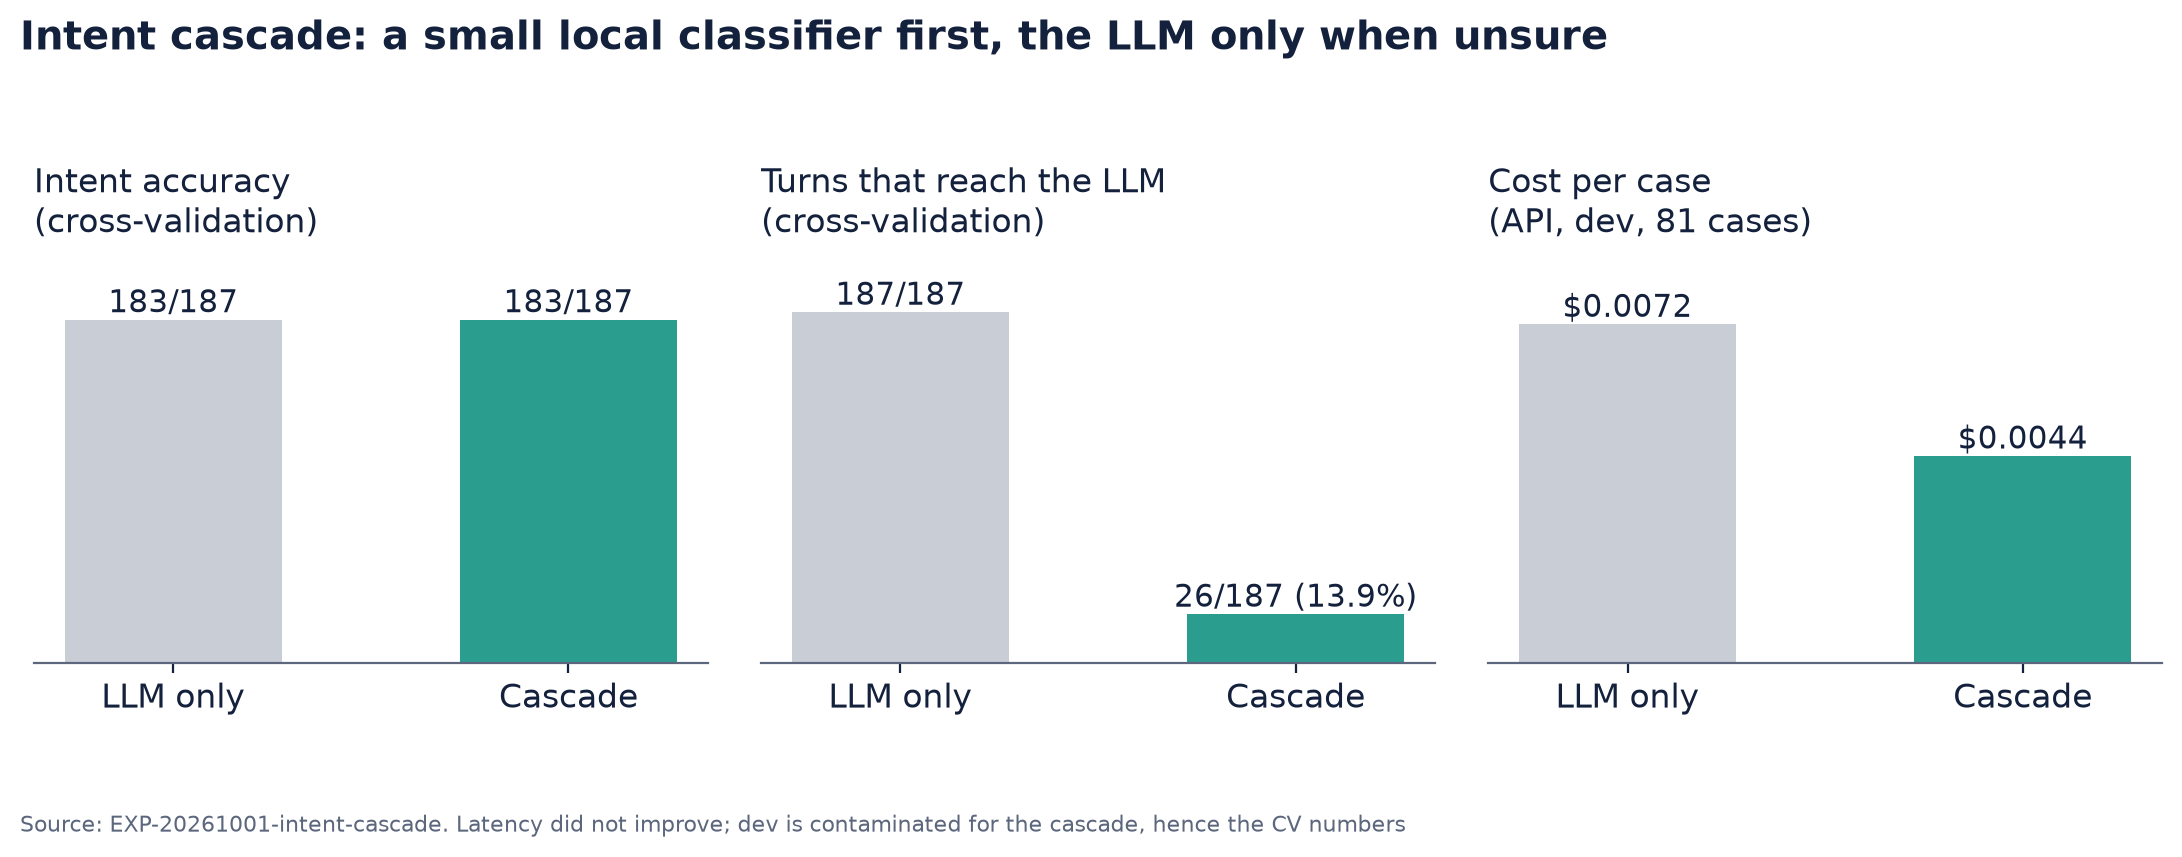
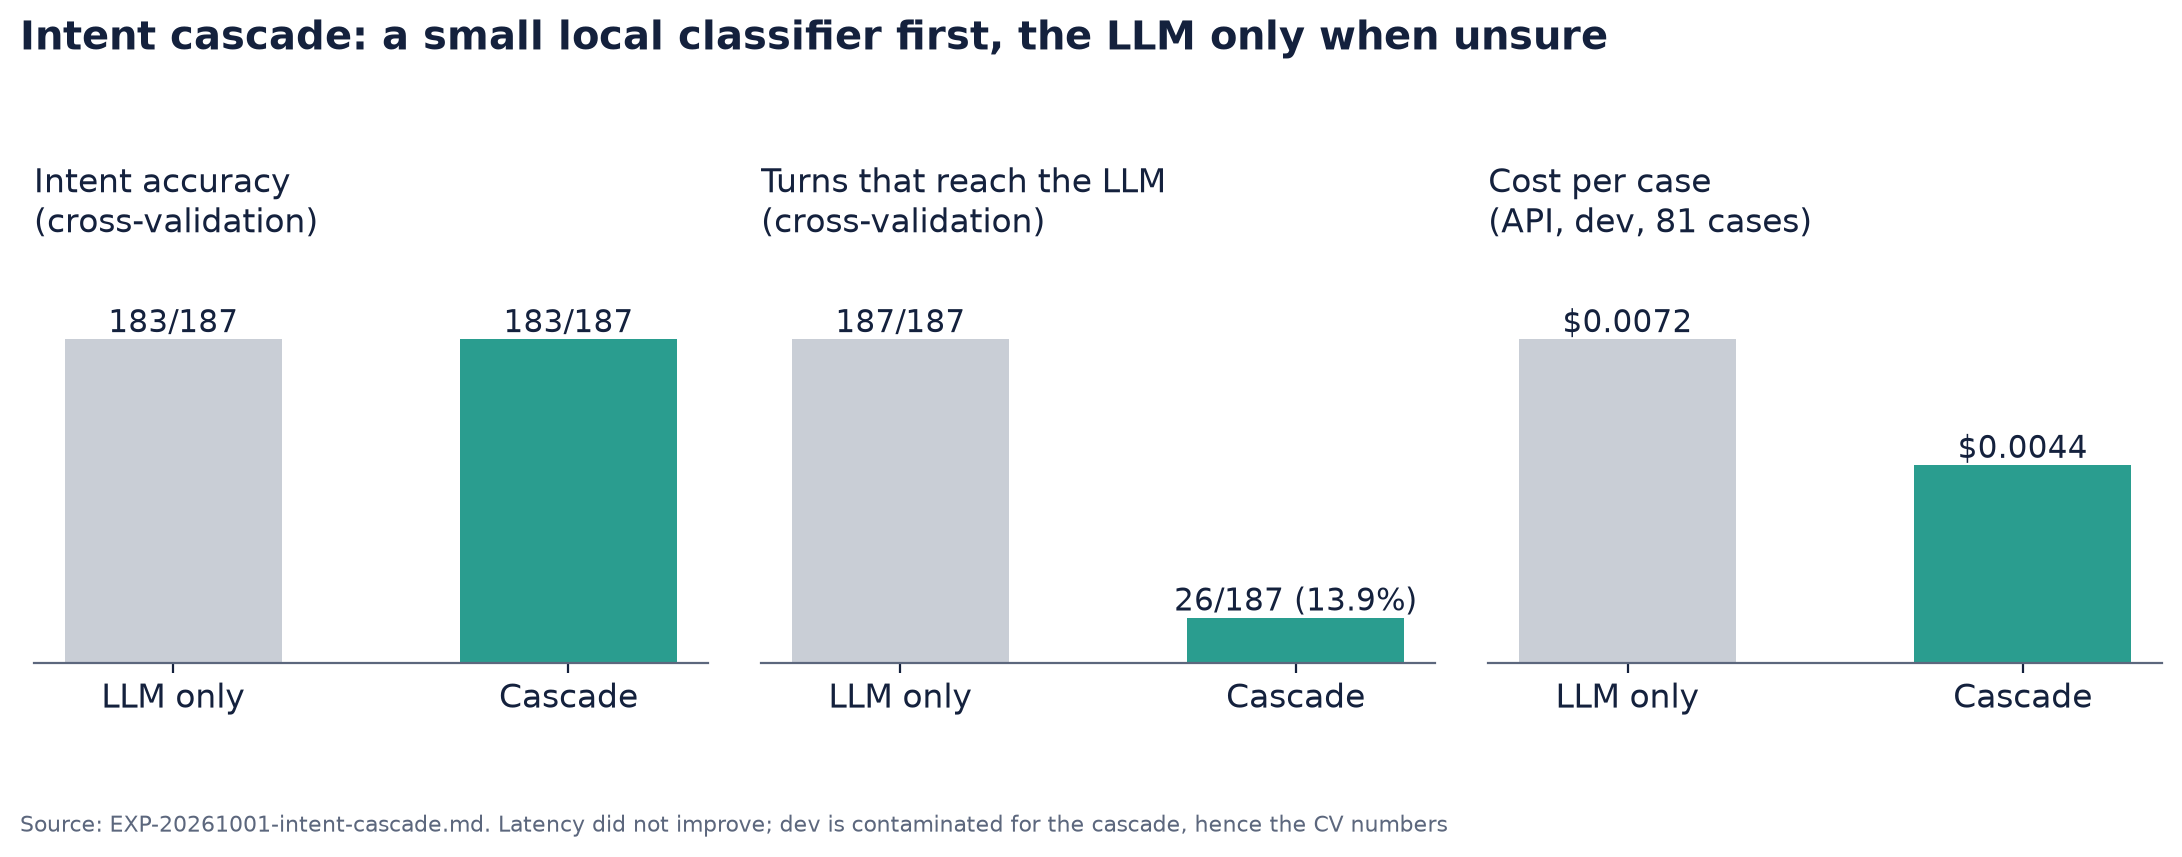
docs(presentation): figures read their numbers from the recorded results; ROI break-even chart
make_figures.py now parses the eval reports, the experiment tables, the risk model
JSON and roi.toml instead of hard-coded numbers, and fails clearly when a source is
missing. The frozen-test row comes from the table written by final_eval.sh --final.
evaluation-api.png labels each run with its size and date.

Claude-Session: https://claude.ai/code/session_01DF8GC7WgeWqpaRomXdAd3z

diff --git a/docs/presentation/make_figures.py b/docs/presentation/make_figures.py
@@ -1,5 +1,22 @@
-"""Figures for the slides. Every number is copied from a recorded run or document (source next to it); nothing is computed
-from the dataset here, so the script runs anywhere:  .venv/bin/python docs/presentation/make_figures.py"""
+"""Figures for the slides, generated from the recorded results (nothing is typed by hand here).
+
+    .venv/bin/python docs/presentation/make_figures.py
+
+Where each number comes from (the script fails with a clear message if a source file or row is missing):
+- risk-frauds-caught.png   docs/experiments/EXP-20261001-risk-calibration.md (results table) + models/risk/risk-v1.json
+- intent-cascade.png       docs/experiments/EXP-20261001-intent-cascade.md (cross-validation and harness tables)
+- all-llm-vs-system.png    eval/results/20260930-2139_comparacion_dev.md (eval.compare report)
+- evaluation-api.png       eval/results/20261001-1355_comparacion_dev.md, eval/results/20261001-1601_comparacion_dev_paraphrase.md
+                           and, for the last row, the newest eval/results/*_tabla_final.md written by scripts/final_eval.sh --final
+                           (until that file exists, the row says "pending")
+- roi-break-even.png       backend/config/roi.toml through backend.app.observability.admin_metrics.roi_numbers
+"""
+from __future__ import annotations
+
+import json
+import re
+import sys
+import tomllib
 from pathlib import Path
 
 import matplotlib
@@ -7,100 +24,238 @@ import matplotlib
 matplotlib.use("Agg")
 import matplotlib.pyplot as plt  # noqa: E402
 
+ROOT = Path(__file__).resolve().parents[2]
+sys.path.insert(0, str(ROOT))
 OUT = Path(__file__).resolve().parent / "figures"
+RISK_EXP = "docs/experiments/EXP-20261001-risk-calibration.md"
+RISK_MODEL = "models/risk/risk-v1.json"
+CASCADE_EXP = "docs/experiments/EXP-20261001-intent-cascade.md"
+DESIGN = "eval/results/20260930-2139_comparacion_dev.md"
+API_DEV = "eval/results/20261001-1355_comparacion_dev.md"
+API_PARAPHRASE = "eval/results/20261001-1601_comparacion_dev_paraphrase.md"
+ROI = "backend/config/roi.toml"
+
 INK, MUTED, ACCENT, GREY = "#14213d", "#5c677d", "#2a9d8f", "#c9ced6"
 plt.rcParams.update({"font.family": "DejaVu Sans", "font.size": 12, "axes.spines.top": False, "axes.spines.right": False,
                      "axes.edgecolor": MUTED, "text.color": INK, "axes.labelcolor": INK, "xtick.color": INK, "ytick.color": INK})
 
 
+# ------------------------------------------------------------------ reading the sources
+def read(rel: str) -> str:
+    path = ROOT / rel
+    if not path.exists():
+        raise SystemExit(f"missing source file: {rel} (needed by docs/presentation/make_figures.py)")
+    return path.read_text(encoding="utf-8")
+
+
+def cells(line: str) -> list[str]:
+    return [c.strip().strip("*`").strip() for c in line.strip().strip("|").split("|")]
+
+
+def table_row(rel: str, row_key: str, header_key: str) -> dict[str, str]:
+    """The row whose first cells contain `row_key`, from the first Markdown table whose header contains `header_key`,
+    as {header: cell}."""
+    lines = read(rel).splitlines()
+    for i, line in enumerate(lines):
+        if line.startswith("|") and header_key in line and i + 1 < len(lines) and set(lines[i + 1]) <= set("|-: "):
+            header = cells(line)
+            for row in lines[i + 2:]:
+                if not row.startswith("|"):
+                    break
+                if row_key in row:
+                    return dict(zip(header, cells(row)))
+    raise SystemExit(f"{rel}: no row '{row_key}' in a table with a '{header_key}' column")
+
+
+def frac(text: str) -> tuple[int, int]:
+    """'1.082/708.054 (0.15 %)' → (1082, 708054). Thousands separators are dots in the Spanish reports."""
+    m = re.search(r"([\d.]+)/([\d.]+)", text)
+    if not m:
+        raise SystemExit(f"cannot read a fraction from '{text}'")
+    return int(m.group(1).replace(".", "")), int(m.group(2).replace(".", ""))
+
+
+def usd(text: str) -> float:
+    m = re.search(r"\$([\d.]+)", text)
+    if not m:
+        raise SystemExit(f"cannot read an amount from '{text}'")
+    return float(m.group(1))
+
+
+def latency(text: str) -> tuple[str, str]:
+    """'1.5 s / 4.6 s' or '1,4 s / 4,4 s' → ('1.5 s', '4.6 s')."""
+    p50, p95 = (x.strip().replace(",", ".") for x in text.split("/"))
+    return p50, p95
+
+
+def run_date(rel: str) -> str:
+    m = re.search(r"·\s*(\d{4}-\d{2}-\d{2})", read(rel).splitlines()[0])
+    if not m:
+        raise SystemExit(f"{rel}: no run date in the title")
+    return m.group(1)
+
+
 def save(fig, name: str, source: str) -> None:
-    fig.text(0.01, -0.04, f"Source: {source}", fontsize=8, color=MUTED, ha="left", va="top")   # debajo de todo: no pisa los ejes
+    fig.text(0.01, -0.04, f"Source: {source}", fontsize=8, color=MUTED, ha="left", va="top")   # below everything
     fig.savefig(OUT / name, dpi=200, bbox_inches="tight", facecolor="white")
     plt.close(fig)
 
 
+def three_panels(title: str, names: list[str], panels: list[tuple[str, list[float], list[str]]]):
+    fig, axes = plt.subplots(1, 3, figsize=(11, 3.9))
+    for ax, (panel_title, values, labels) in zip(axes, panels):
+        bars = ax.bar(names, values, color=[GREY, ACCENT], width=0.55)
+        for b, label in zip(bars, labels):
+            ax.text(b.get_x() + b.get_width() / 2, b.get_height(), label, ha="center", va="bottom", fontsize=11)
+        ax.set_ylim(0, max(values) * 1.28)
+        ax.set_yticks([])
+        ax.spines["left"].set_visible(False)
+        ax.set_title(panel_title, fontsize=12, loc="left")
+    fig.suptitle(title, x=0.01, ha="left", fontweight="bold")
+    fig.tight_layout(rect=(0, 0.04, 1, 0.94))
+    return fig
+
+
+# ------------------------------------------------------------------ figures
 def risk() -> None:
-    # docs/experiments/EXP-20261001-risk-calibration.md: held-out period, 620 frauds with a score
-    labels, caught, precision = ["Previous band\n(score ≥ 70)", "risk-v1\n(calibrated, cost-based threshold)"], [182, 446], ["182/182", "446/446"]
+    model = json.loads(read(RISK_MODEL))
+    before = table_row(RISK_EXP, "banda alta actual", "Fraudes detectados")
+    after = table_row(RISK_EXP, "Score calibrado", "Fraudes detectados")
+    rows = [("Previous band\n(score ≥ 70)", before), (f"{model['version']}\n(calibrated, cost-based threshold)", after)]
+    caught = [frac(r["Fraudes detectados (recall)"]) for _, r in rows]
+    precision = [frac(r["Precisión"]) for _, r in rows]
+    total = caught[0][1]
     fig, ax = plt.subplots(figsize=(7.5, 4.2))
-    bars = ax.bar(labels, caught, color=[GREY, ACCENT], width=0.55)
-    ax.axhline(620, color=MUTED, linestyle="--", linewidth=1)
-    ax.text(1.42, 620, "620 frauds with a score", va="center", ha="right", fontsize=10, color=MUTED, backgroundcolor="white")
-    for b, n, p in zip(bars, caught, precision):
-        ax.text(b.get_x() + b.get_width() / 2, n + 12, f"{n}/620 ({n / 620:.1%})\nprecision {p}", ha="center", va="bottom", fontsize=11)
-    ax.set_ylim(0, 760)
+    bars = ax.bar([label for label, _ in rows], [n for n, _ in caught], color=[GREY, ACCENT], width=0.55)
+    ax.axhline(total, color=MUTED, linestyle="--", linewidth=1)
+    ax.text(1.42, total, f"{total} frauds with a score", va="center", ha="right", fontsize=10, color=MUTED, backgroundcolor="white")
+    for b, (n, d), (pn, pd) in zip(bars, caught, precision):
+        ax.text(b.get_x() + b.get_width() / 2, n + total * 0.02, f"{n}/{d} ({n / d:.1%})\nprecision {pn}/{pd}", ha="center", va="bottom", fontsize=11)
+    ax.set_ylim(0, total * 1.23)
     ax.set_ylabel("Frauds routed to the fraud team")
     ax.set_title("Fraud risk: frauds caught in the held-out period", loc="left", fontweight="bold")
-    save(fig, "risk-frauds-caught.png", "EXP-20261001-risk-calibration (synthetic dataset; 217-day test period)")
+    save(fig, "risk-frauds-caught.png", f"{RISK_EXP.split('/')[-1]} and {RISK_MODEL} (trained {model['trained_on']}; synthetic dataset)")
 
 
 def cascade() -> None:
-    # docs/experiments/EXP-20261001-intent-cascade.md: 5-fold grouped CV (187 messages); harness with the API on dev (81 cases)
-    fig, axes = plt.subplots(1, 3, figsize=(11, 3.9))
-    names, colors = ["LLM only", "Cascade"], [GREY, ACCENT]
-    for ax, title, values, fmt, top in (
-            (axes[0], "Intent accuracy\n(cross-validation)", [183 / 187, 183 / 187], ["183/187", "183/187"], 1.18),
-            (axes[1], "Turns that reach the LLM\n(cross-validation)", [1.0, 26 / 187], ["187/187", "26/187 (13.9%)"], 1.18),
-            (axes[2], "Cost per case\n(API, dev, 81 cases)", [0.0072, 0.0044], ["$0.0072", "$0.0044"], 0.0088)):
-        bars = ax.bar(names, values, color=colors, width=0.55)
-        for b, label in zip(bars, fmt):
-            ax.text(b.get_x() + b.get_width() / 2, b.get_height(), label, ha="center", va="bottom", fontsize=11)
-        ax.set_ylim(0, top)
-        ax.set_yticks([])
-        ax.spines["left"].set_visible(False)
-        ax.set_title(title, fontsize=12, loc="left")
-    fig.suptitle("Intent cascade: a small local classifier first, the LLM only when unsure", x=0.01, ha="left", fontweight="bold")
-    fig.tight_layout(rect=(0, 0.04, 1, 0.94))
-    save(fig, "intent-cascade.png", "EXP-20261001-intent-cascade. Latency did not improve; dev is contaminated for the cascade, hence the CV numbers")
+    llm = table_row(CASCADE_EXP, "Haiku (solo LLM)", "Macro-F1")
+    casc = table_row(CASCADE_EXP, "Cascada", "Macro-F1")
+    acc_key, to_llm_key = list(llm)[1], list(llm)[3]
+    acc = [frac(llm[acc_key]), frac(casc[acc_key])]
+    to_llm = [frac(llm[to_llm_key]), frac(casc[to_llm_key])]
+    api = table_row(CASCADE_EXP, "`sistema_api`", "Costo por caso")
+    api_c = table_row(CASCADE_EXP, "`sistema_cascade`", "Costo por caso")
+    costs = [usd(api["Costo por caso"]), usd(api_c["Costo por caso"])]
+    n_cases = frac(api["Pasan todo"])[1]
+    fig = three_panels("Intent cascade: a small local classifier first, the LLM only when unsure", ["LLM only", "Cascade"], [
+        ("Intent accuracy\n(cross-validation)", [n / d for n, d in acc], [f"{n}/{d}" for n, d in acc]),
+        ("Turns that reach the LLM\n(cross-validation)", [n / d for n, d in to_llm], [f"{n}/{d}" + ("" if n == d else f" ({n / d:.1%})") for n, d in to_llm]),
+        (f"Cost per case\n(API, dev, {n_cases} cases)", costs, [f"${c:.4f}" for c in costs])])
+    save(fig, "intent-cascade.png", f"{CASCADE_EXP.split('/')[-1]}. Latency did not improve; dev is contaminated for the cascade, hence the CV numbers")
 
 
 def design() -> None:
-    # eval/results/20260930-2139_comparacion_dev.md: dev (50 cases x 3 repeats), both variants with claude -p (local CLI)
-    fig, axes = plt.subplots(1, 3, figsize=(11, 3.9))
-    names, colors = ["All-LLM", "System"], [GREY, ACCENT]
-    for ax, title, values, fmt, top in (
-            (axes[0], "Pass all checks / unsafe", [1.0, 1.0], ["150/150\n0 unsafe", "150/150\n0 unsafe"], 1.3),
-            (axes[1], "Latency per turn, p50 (p95)", [7.5, 3.9], ["7.5 s (19.8 s)", "3.9 s (13.0 s)"], 9.5),
-            (axes[2], "Cost per case", [0.0218, 0.0151], ["$0.0218", "$0.0151"], 0.027)):
-        bars = ax.bar(names, values, color=colors, width=0.55)
-        for b, label in zip(bars, fmt):
-            ax.text(b.get_x() + b.get_width() / 2, b.get_height(), label, ha="center", va="bottom", fontsize=11)
-        ax.set_ylim(0, top)
-        ax.set_yticks([])
-        ax.spines["left"].set_visible(False)
-        ax.set_title(title, fontsize=12, loc="left")
-    fig.suptitle("Templates and code where the LLM adds nothing: same safety, faster and cheaper", x=0.01, ha="left", fontweight="bold")
-    fig.tight_layout(rect=(0, 0.04, 1, 0.94))
-    save(fig, "all-llm-vs-system.png", "comparison 2026-09-30, dev, 3 repeats, both with the local CLI (claude -p): relative comparison, not production figures")
+    rows = [table_row(DESIGN, "`claude_cli`", "Pasan todo"), table_row(DESIGN, "`sistema`", "Pasan todo")]
+    passed = [frac(r["Pasan todo"]) for r in rows]
+    unsafe = [frac(r["Inseguros"]) for r in rows]
+    lat = [latency(r["Latencia/turno p50 / p95"]) for r in rows]
+    costs = [usd(r["Costo por caso"]) for r in rows]
+    reps = int(rows[0]["Rep."])
+    fig = three_panels("Templates and code where the LLM adds nothing: same safety, faster and cheaper", ["All-LLM", "System"], [
+        ("Pass all checks / unsafe", [n / d for n, d in passed], [f"{n}/{d}\n{u} unsafe" for (n, d), (u, _) in zip(passed, unsafe)]),
+        ("Latency per turn, p50 (p95)", [float(p50.split()[0]) for p50, _ in lat], [f"{p50} ({p95})" for p50, p95 in lat]),
+        ("Cost per case", costs, [f"${c:.4f}" for c in costs])])
+    save(fig, "all-llm-vs-system.png", f"{DESIGN.split('/')[-1]} ({run_date(DESIGN)}, dev, {passed[0][1] // reps} cases x {reps} repeats), "
+                                       "both with the local CLI (claude -p): relative comparison, not production figures")
+
+
+def final_row() -> tuple[list[str], str]:
+    """Last row of the evaluation table: the frozen test from the newest final table of scripts/final_eval.sh --final."""
+    finals = sorted((ROOT / "eval/results").glob("*_tabla_final.md"))
+    if not finals:
+        return ["hand-written test (frozen), final API run", "pending", "pending", "pending", "pending"], "final run pending (scripts/final_eval.sh --final)"
+    rel = str(finals[-1].relative_to(ROOT))
+    text = read(rel)
+    if "### Split `test`" not in text:
+        raise SystemExit(f"{rel}: the final table has no test split (was the hand-written test imported before the final run?)")
+    section = text.split("### Split `test`", 1)[1].split("###", 1)[0]
+    line = next((x for x in section.splitlines() if x.startswith("|") and "Sistema (API)" in x), None)
+    if line is None:
+        raise SystemExit(f"{rel}: no 'Sistema (API)' row in the test split")
+    c = cells(line)
+    (n, d), (u, ud), (p50, p95) = frac(c[1]), frac(c[2]), latency(c[5])
+    day = re.match(r"(\d{4})(\d{2})(\d{2})", finals[-1].name)
+    date = "-".join(day.groups()) if day else "?"
+    return [f"hand-written test (frozen), {d} cases, API run {date}", f"{n}/{d}", f"{u}/{ud}", f"{p50} / {p95}", c[6]], rel
 
 
 def api() -> None:
-    # docs/llm-data.md (checkpoint 1) and eval/results/20261001-1601_comparacion_dev_paraphrase.md: system with the Claude API
-    rows = [("dev (60 cases)", "60/60", "0/60", "1.5 s / 4.6 s", "$0.0079"),
-            ("paraphrased dev (96 cases)", "96/96", "0/96", "1.4 s / 4.5 s", "$0.0073"),
-            ("hand-written test (frozen)", "TBD", "TBD", "TBD", "TBD")]
-    fig, ax = plt.subplots(figsize=(10.5, 2.6))
+    rows = []
+    for rel, label in ((API_DEV, "dev"), (API_PARAPHRASE, "paraphrased dev")):
+        r = table_row(rel, "`sistema_api`", "Pasan todo")
+        (n, d), (u, ud), (p50, p95) = frac(r["Pasan todo"]), frac(r["Inseguros"]), latency(r["Latencia/turno p50 / p95"])
+        rows.append([f"{label}, {d} cases, API run {run_date(rel)}", f"{n}/{d}", f"{u}/{ud}", f"{p50} / {p95}", f"${usd(r['Costo por caso']):.4f}"])
+    last, last_source = final_row()
+    rows.append(last)
+    fig, ax = plt.subplots(figsize=(11.5, 2.6))
     ax.axis("off")
     table = ax.table(cellText=rows, colLabels=["System, Claude API", "Pass all", "Unsafe", "Latency p50 / p95", "Cost per case"],
-                     loc="center", cellLoc="center", colWidths=[0.34, 0.14, 0.12, 0.22, 0.18])
+                     loc="center", cellLoc="center", colWidths=[0.46, 0.11, 0.10, 0.18, 0.15])
     table.auto_set_font_size(False)
     table.set_fontsize(11)
     table.scale(1, 1.9)
+    pending = last[1] == "pending"
     for (r, c), cell in table.get_celld().items():
         cell.set_edgecolor(GREY)
         if r == 0:
             cell.set_facecolor(INK)
             cell.set_text_props(color="white", fontweight="bold")
-        elif r == 3:
+        elif r == len(rows) and pending:
             cell.set_text_props(color=MUTED, style="italic")
         elif c in (1, 2):
             cell.set_text_props(fontweight="bold", color=ACCENT)
-    ax.set_title("Measured with 18 deterministic checkers (no LLM judge)", loc="left", fontweight="bold")
-    save(fig, "evaluation-api.png", "checkpoint 1 (docs/llm-data.md) and comparison 2026-10-01 (paraphrase). Final row: scripts/final_eval.sh --final")
+    ax.set_title("Measured with deterministic checkers (no LLM judge)", loc="left", fontweight="bold")
+    save(fig, "evaluation-api.png", f"{API_DEV.split('/')[-1]}, {API_PARAPHRASE.split('/')[-1]}; last row: {last_source}. "
+                                    "Each row is the case set as it was on that date")
+
+
+def roi() -> None:
+    from backend.app.observability.admin_metrics import roi_numbers      # the same calculation as the endpoint and analytics.md
+    a = tomllib.loads(read(ROI))["assumptions"]
+    r = roi_numbers(a)
+    break_even, assumed = r["break_even_cases_per_month"], a["cases_per_month"]
+    if not break_even:
+        raise SystemExit(f"{ROI}: with these assumptions there is no saving per case, so there is no break-even point")
+    xs = [0, max(assumed, break_even * 2) * 1.1]
+    net = [x * r["saving_per_case_usd"] - a["fixed_monthly_cost_usd"] for x in xs]
+    at_assumed = assumed * r["saving_per_case_usd"] - a["fixed_monthly_cost_usd"]
+    fig, ax = plt.subplots(figsize=(8.5, 4.4))
+    ax.plot(xs, net, color=ACCENT, linewidth=2.5)
+    ax.axhline(0, color=MUTED, linewidth=1)
+    ax.scatter([break_even], [0], color=INK, zorder=3)
+    ax.annotate(f"break-even: {break_even:,} cases / month", (break_even, 0), xytext=(break_even + xs[1] * 0.10, -at_assumed * 0.13),
+                arrowprops={"arrowstyle": "-", "color": MUTED}, fontsize=11)
+    at = assumed * r["saving_per_case_usd"] - a["fixed_monthly_cost_usd"]
+    ax.scatter([assumed], [at], color=ACCENT, zorder=3)
+    ax.annotate(f"{assumed:,} cases / month (assumed)\n≈ ${at:,.0f} / month", (assumed, at), xytext=(assumed * 0.52, at * 0.93), fontsize=11)
+    ax.set_ylim(bottom=-at_assumed * 0.2)             # room for the break-even label under the zero line
+    ax.set_xlabel("Cases per month")
+    ax.set_ylabel("Estimated net saving per month (USD)")
+    ax.xaxis.set_major_formatter(lambda x, _: f"{x:,.0f}")
+    ax.yaxis.set_major_formatter(lambda y, _: f"-${-y:,.0f}" if y < 0 else f"${y:,.0f}")
+    ax.set_title("ROI: an estimate with explicit assumptions, not a result", loc="left", fontweight="bold")
+    note = (f"Assumptions: ${a['agent_cost_per_minute_usd']:.2f} per agent minute · {a['minutes_per_case_human']} min per case (measured in the dataset) · "
+            f"{a['automatable_share']:.0%} of cases not reaching a person\n"
+            f"${a['llm_cost_per_case_usd']:.4f} LLM cost per case (measured, API) · ${a['fixed_monthly_cost_usd']:,.2f} fixed cost per month · "
+            f"saving per case ${r['saving_per_case_usd']:.2f} (human-handled case: ${r['human_cost_per_case_usd']:.2f})")
+    fig.text(0.01, -0.02, note.replace("$", r"\$"), fontsize=9, color=INK, ha="left", va="top")   # "$" literal, no mathtext
+    fig.text(0.01, -0.13, f"Source: {ROI} (team assumptions, editable) and roi_numbers(); same numbers as docs/analytics.md §4", fontsize=8, color=MUTED, ha="left", va="top")
+    fig.savefig(OUT / "roi-break-even.png", dpi=200, bbox_inches="tight", facecolor="white")
+    plt.close(fig)
 
 
 if __name__ == "__main__":
     OUT.mkdir(exist_ok=True)
-    for make in (risk, cascade, design, api):
+    for make in (risk, cascade, design, api, roi):
         make()
     print("\n".join(sorted(p.name for p in OUT.glob("*.png"))))

diff --git a/docs/presentation/README.md b/docs/presentation/README.md
@@ -7,7 +7,7 @@ Draft content for the two deliverables the kickoff asks for ([submission.md](../
 |---|---|
 | [slides.md](slides.md) | Six slides: headline, on-slide content, suggested visual, speaker notes and the source of every number |
 | [video-script.md](video-script.md) | Narration and shot list for the video, on top of the click-by-click guide in [demo-script.md](../demo-script.md) |
-| [figures/](figures/) | Charts for slides 4 and 5 (PNG, 200 dpi). Regenerate with `.venv/bin/python docs/presentation/make_figures.py`; every number in the script cites its source, and the final-test row of `evaluation-api.png` is edited there after Saturday's run |
+| [figures/](figures/) | Charts for slides 4, 5 and 6 (PNG, 200 dpi). `.venv/bin/python docs/presentation/make_figures.py` regenerates them **from the recorded results** (`eval/results/`, `docs/experiments/`, `models/risk/risk-v1.json`, `backend/config/roi.toml`) and fails with a clear message if a source is missing. The frozen-test row of `evaluation-api.png` is read from the table that `scripts/final_eval.sh --final` writes; until it exists the row says "pending" |
 
 Rules used here:
 

diff --git a/docs/presentation/slides.md b/docs/presentation/slides.md
@@ -141,7 +141,7 @@ the injection finding from slide 3, fixed before the 96/96 run. Say the failure 
   or card-network integration; voice is behind a flag and untested with the real provider; risk threshold must be
   re-fitted on real data.
 
-**Visual:** [conversaciones-desktop.png](../screenshots/conversaciones-desktop.png) next to the ROI break-even figure ([analytics/figures/roi-punto-de-equilibrio.png](../analytics/figures/roi-punto-de-equilibrio.png), labels in Spanish).
+**Visual:** [conversaciones-desktop.png](../screenshots/conversaciones-desktop.png) next to [figures/roi-break-even.png](figures/roi-break-even.png).
 
 **Speaker notes:** Close on the split of responsibilities: the system opens and routes cases, people resolve them. The ROI
 is an estimate with editable assumptions ($0.25 per agent minute, 10,000 cases per month, 80 % of cases not reaching a
